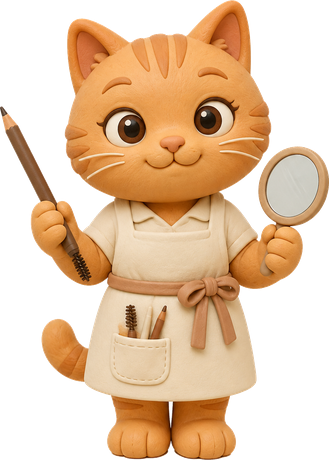
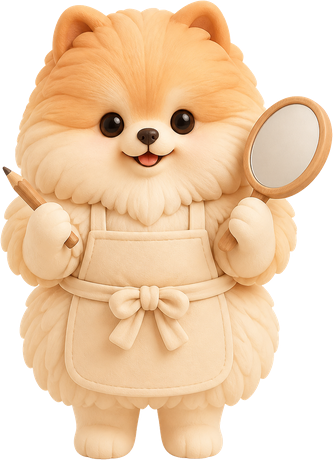
🐶 똥치 클레이 캐릭터 고양이→포메라니안 강아지로 교체

diff --git a/index.html b/index.html
@@ -846,7 +846,7 @@ function renderMap() {
 /* ---------- 렌더: 클레이 그림 맵 오버레이 ---------- */
 function clayArtHtml(m) {
   const art = CLAY_ART[m.id] || CLAY_GUEST;
-  return `<img src="assets/${art}.png?v=1" alt="${esc(m.name)}" loading="lazy" draggable="false" />`;
+  return `<img src="assets/${art}.png?v=2" alt="${esc(m.name)}" loading="lazy" draggable="false" />`;
 }
 
 function dotClass(s) {
